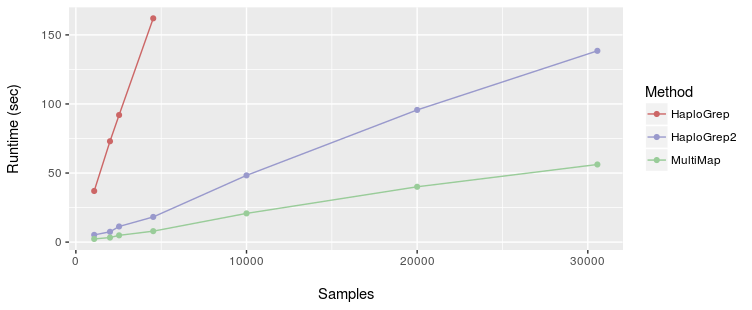
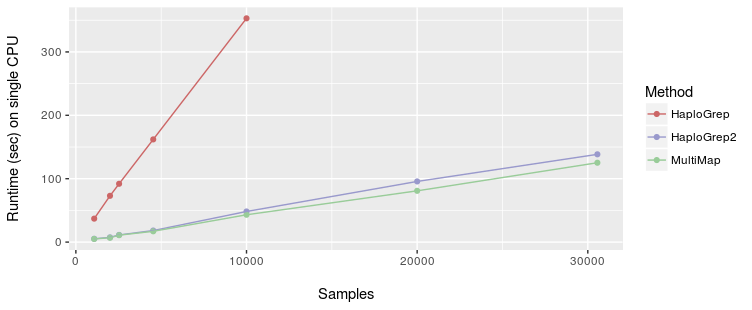
Update on Overleaf.

diff --git a/chapterHaploGrep.tex b/chapterHaploGrep.tex
@@ -342,7 +342,7 @@ The current version of HaploGrep 2 accepts data generated by different genotypin
 \subsection{Architecture}
 The foundation of the optimized version, is the use of an Key-Value approach based on the recursive function presented in Section \ref{hg:algorithm}, that is used to write the \texttt{key} = haplogroup, and the \texttt{value} = list of polymorphisms defining the haplogroup. Thereafter an inverted index is created, consisting of the list of all unique polymorphisms occurring on Phylotree, by providing for each polymorphism a collection of haplogroups in which it appears. This allows the quick search for profiles by using a map that holds a collection of values against each key. While \texttt{HashMap<K, ArrayList<V>>} can be used in Java, to associate arbitrarily many values to a key, here the Google Guava Multimap framework \footnote{\url{https://github.com/google/guava/wiki/NewCollectionTypesExplained}}, was considered. The Apache Commons Collection also provides a MultiValuedMap\footnote{\url{https://commons.apache.org/proper/commons-collections/apidocs/org/apache/commons/collections4/MultiValuedMap.html}}, so that programmers don't not need to reinvent the wheel, when working with this abstract data structure.
 
-The resulting algorithm for estimating the haplogroup from a query profile $Q  = \left(q_1,q_2,\dotsc,q_n\right)$, with $q_i \in P$, where $P$ represents the set of all polymorphisms contained in Phylotree and $_i$ the length of the query profile $|Q|$ is a distance maximizing problem. Thereby $\forall q_i \in P \neq$ insertion/deletion. By iterating over the query profiles $q_i$ for each list of values, the haplogroups $H \left(h_1,h_2,\dotsc,h_n\right) \in$ Phylotree, with $n$ the number of elements of haplogroups present in Phylotree, are added to a new resulting HashMap $R$, where the key $rk = h_j$ and the value $rv$ = the phylogenetic weight $w_i$ for the polymorphism $q_i$ and $w_i = \left[1, 10\right]$. The key with the highest value and the least remaining SNPs represents the result = $ \min\left(\max\left(rv\right)\right)$. TODO EXPLAIN BETTER
+The resulting algorithm for estimating the haplogroup from a query profile $Q  = \left(q_1,q_2,\dotsc,q_n\right)$, with $q_i \in P$, where $P$ represents the set of all polymorphisms contained in Phylotree and $_i$ the length of the query profile $|Q|$ is a distance maximizing problem. By iterating over the query profiles $q_i$ for each list of values, the haplogroups $H \left(h_1,h_2,\dotsc,h_n\right) \in$ Phylotree, with $n$ the number of elements of haplogroups present in Phylotree, are added to a new resulting HashMap $R$, where the key $rk = h_j$ and the value $rv$ = the phylogenetic weight $w_i$ for the polymorphism $q_i$ and $w_i = \left[1, 10\right]$. The key with the highest value and the least remaining SNPs represents the result = $ \min\left(\max\left(rv\right)\right)$. TODO EXPLAIN BETTER
 
 \subsection{Validation}
 Based on the data from the 1000G Phase 1 data set and the Danish cohort presented earlier (see Evalation \ref{subs:evaluation}), we reassess the haplogroup classification available in HaploGrep 2 \footnote{\url{http://haplogrep.uibk.ac.at}} and the MultiMap version based on different set ups:
@@ -352,13 +352,16 @@ Based on the data from the 1000G Phase 1 data set and the Danish cohort presente
 \centering
 \caption{My caption}
 \label{my-label}
-\begin{tabular}{|l|l|l|l|}
+\begin{tabular}{|l|l|l|l|l|}
 \hline
-             & Samples & HaploGrep2 & Multimap \\ \hline
-1. 1000G P1  & 1,074   & 5.23        & 2.28         \\ \hline
-2. 2K Danish & 2,000   & 7.45       & 3.28         \\ \hline
-3. 1000G P3  & 2,534   & 11.31      & 4.89         \\ \hline
-merged 2 + 3 & 4,534   & 18.22       & 7.92         \\ \hline
+             & Samples & HaploGrep & HaploGrep 2 & Multimap \\ \hline
+1. 1000G P1  & 1,074   & 37  & 5.23        & 4.97         \\ \hline
+2. 2K Danish & 2,000   & 73 & 7.45       & 6.83        \\ \hline
+3. 1000G P3  & 2,534   & 92 & 11.31      & 10.9         \\ \hline
+4. merged 2 + 3 & 4,534   & 162 & 18.22       & 17.04        \\ \hline
+5. GenBank* & 10,000   & 353 & 48.3       & 43.12         \\ \hline
+6. GenBank*  & 20,000   & NA & 95.69       & 80.89         \\ \hline
+7. GenBank*  & 30,561   & NA & 138.47      & 125.2        \\ \hline
 \end{tabular}
 \end{table}
 
@@ -375,13 +378,13 @@ merged 2 + 3 & 4,534   & 18.22       & 7.92         \\ \hline
 \centering
 \caption{My caption}
 \label{my-label}
-\begin{tabular}{|l|l|l|l|}
-\hline
-             & Samples & HaploGrep2 & Optimisation \\ \hline
-1. 1000G P1  & 1,074   & 4.6        & 2.28         \\ \hline
-2. 2K Danish & 2,000   & 6.37       & 3.28         \\ \hline
-3. 1000G P3  & 2,534   &            & 4.89         \\ \hline
-merged 2 + 3 & 4,534   &            & 7.92         \\ \hline
+\begin{tabular}{ll|l|l|l|l|}
+\cline{3-6}
+                               & Samples & \multicolumn{2}{l|}{1000G P1 (n=1,074)} & \multicolumn{2}{l|}{GenBank* (n=12,503)} \\ \hline
+\multicolumn{1}{|l|}{}         & mtSNPs  & HG2               & Multimap            & HG2              & Multimap           \\ \hline
+\multicolumn{1}{|l|}{Illumina} & 226     & 9.94              & 2.28                & 104.19           & 26.54              \\ \hline
+\multicolumn{1}{|l|}{Affy 6}   & 454     & 14.56             & 3.28                & 182.03           & 40.99              \\ \hline
+\multicolumn{1}{|l|}{23andMe}  & 3,154   & 65.4              & 4.89                & 775.92           &       47.27             \\ \hline
 \end{tabular}
 \end{table}
 
